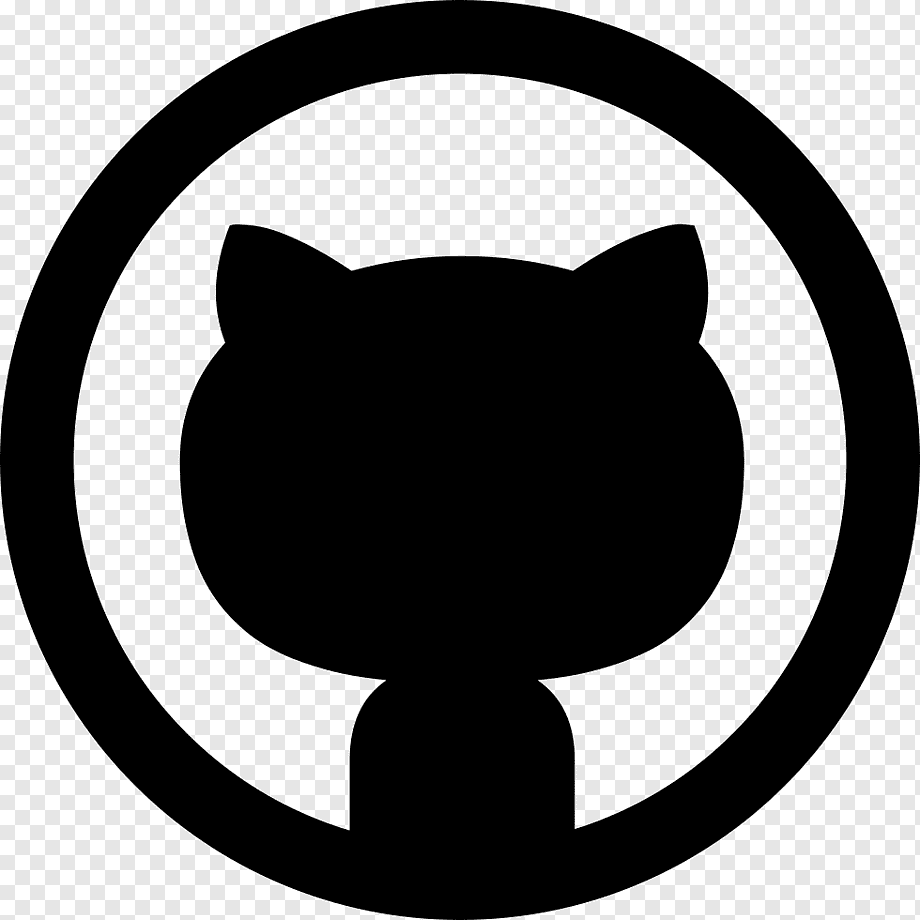
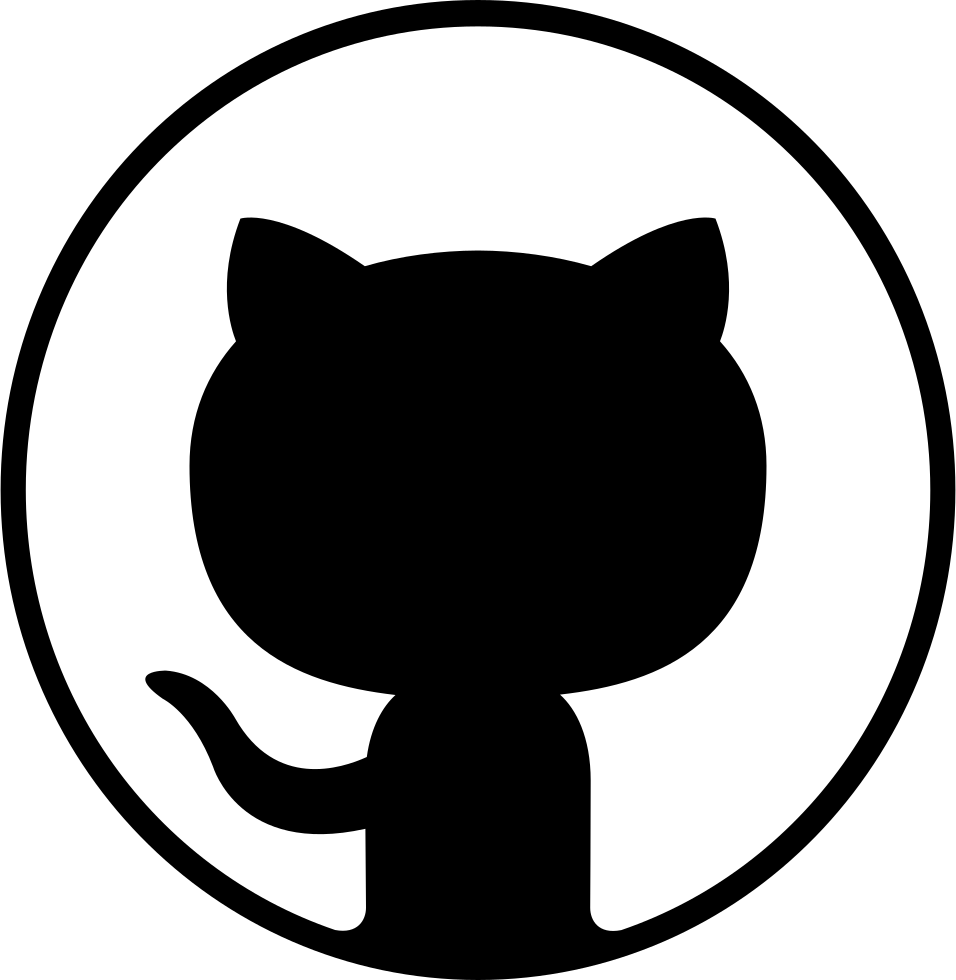
20.04.17

diff --git a/index.html b/index.html
@@ -22,13 +22,14 @@
 <h3 id="team-members-student-id">Team Members &amp; Student ID</h3>
 <hr color="#ffc312">
 <ul>
-<li><p>Gil JeongMin <a href="https://kjmin622.github.io">길정민</a> 2019095414 Devision of Computer Science, Software</p>
+<li><p>Gil JeongMin <a href="https://kjmin622.github.io">길정민</a> 2019095414 Devision of Computer Science, Software &nbsp;<a href="https://github.com/kjmin622"><img src="gitcat.png" height="20px"/></a></p>
+    
 </li>
-<li><p>Kim HyeWon   <a href="https://iopopoi.github.io">김혜원</a> 2019028313 Devision of Computer Science, Software</p>
+<li><p>Kim HyeWon   <a href="https://iopopoi.github.io">김혜원</a> 2019028313 Devision of Computer Science, Software &nbsp;<a href="https://github.com/iopopoi"><img src="gitcat.png" height="20px"/></a></p>
 </li>
-<li><p>Lee SungMin  <a href="https://lee-sungmin.github.io">이성민</a> 2019000773 Devision of Computer Science, Software</p>
+<li><p>Lee SungMin  <a href="https://lee-sungmin.github.io">이성민</a> 2019000773 Devision of Computer Science, Software &nbsp;<a href="https://github.com/lee-sungmin"><img src="gitcat.png" height="20px"/></a></p>
 </li>
-<li><p>Lee HyeonJi &nbsp; <a href="https://huskycat1202.github.io">이현지</a> 2019052251 Devision of Computer Science, Software</p>
+<li><p>Lee HyeonJi &nbsp; <a href="https://huskycat1202.github.io">이현지</a> 2019052251 Devision of Computer Science, Software &nbsp;<a href="https://github.com/huskycat1202"><img src="gitcat.png" height="20px"/></a></p>
 </li>
 </ul>
 <h3 id="icon" >Icon</h3>
@@ -37,4 +38,3 @@
 <p><img src = "./Tudac.png" width="380"></p>
     </body>
 </html>
-
